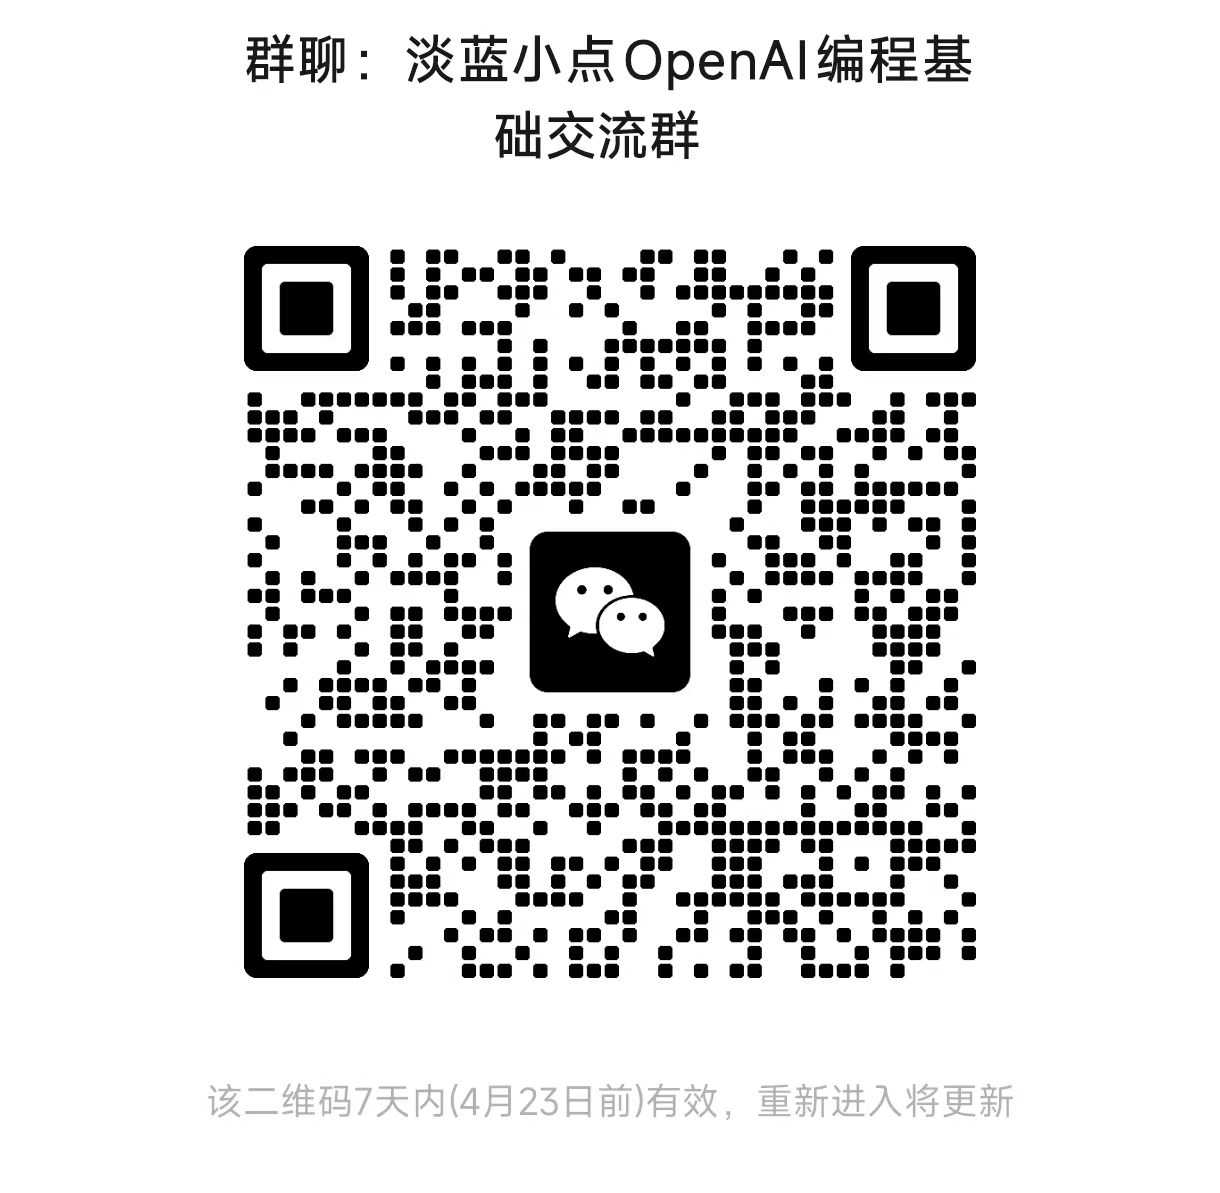
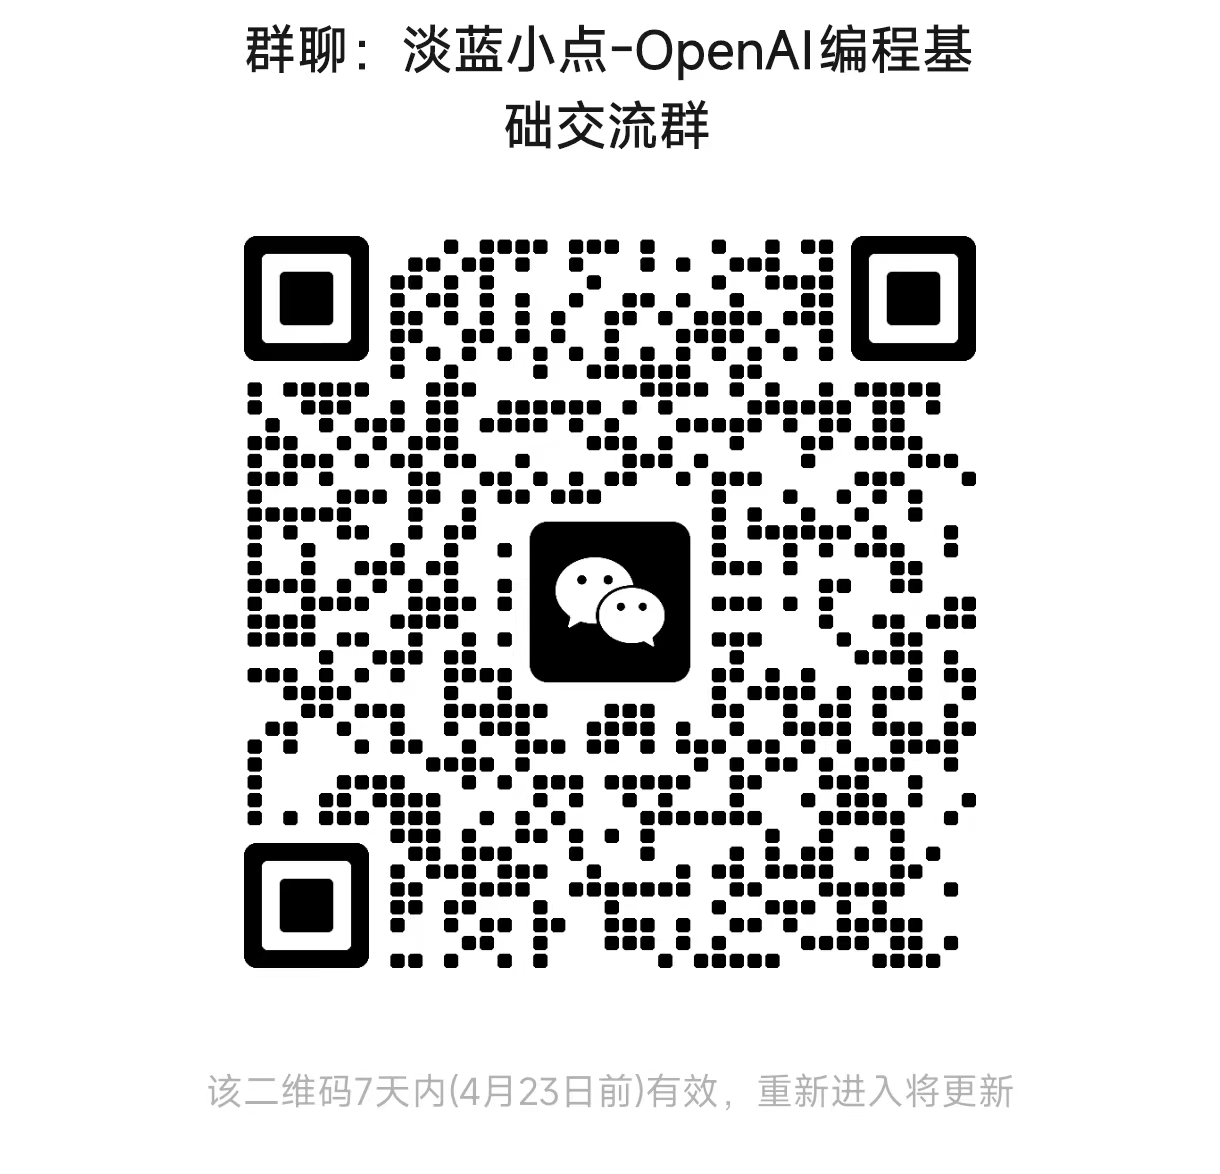
修改了readme

diff --git a/README.md b/README.md
@@ -9,7 +9,7 @@
 ## 课程形式及时间
 还不确定采用哪种形式：直播或者录屏。
 时间也待定。
-请添加淡蓝小点微信（bluedotdot_cn）或入群，准确消息会在朋友圈和微信群内发布。
+请添加淡蓝小点微信（bluedotdot_cn）或入群，准确消息会在朋友圈和微信群内发布。当前群二维码4月23日失效。
 
 <img src="group.jpg" alt="OpenAI编程基础群" width="200" height="200">
 
